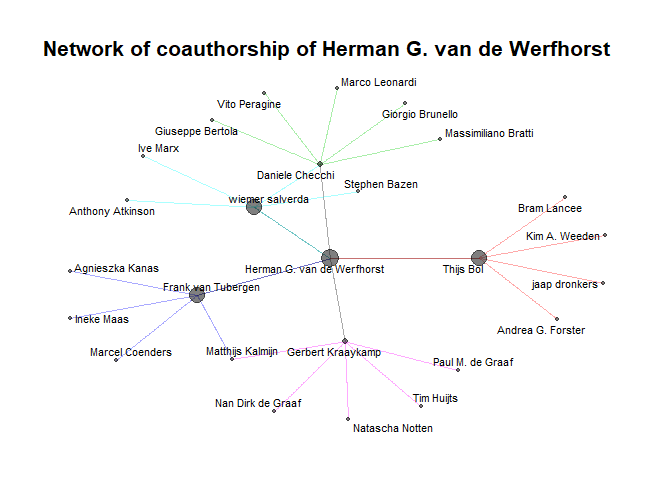
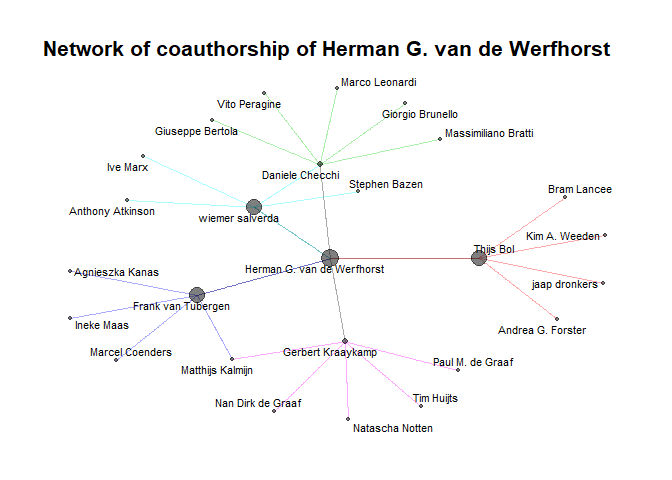
Removes some dependencies and adds info on DESCRIPTION

diff --git a/README.md b/README.md
@@ -33,7 +33,7 @@ A basic example:
 library(coauthornetwork)
 
 final_network <- grab_network('citations?user=amYIKXQAAAAJ&hl=en', n_coauthors = 5)
-plot_coauthors(final_network)
+plot_coauthors(final_network, size_labels = 3)
 ```
 
 <img src="man/figures/README-example-1.png" width="100%" />
@@ -52,7 +52,7 @@ example..
 
 ``` r
 final_network <- grab_network('citations?user=amYIKXQAAAAJ&hl=en', n_coauthors = 10, n_deep = 2)
-plot_coauthors(final_network)
+plot_coauthors(final_network, size_labels = 3)
 ```
 
 <img src="man/figures/README-pressure-1.png" width="100%" />
